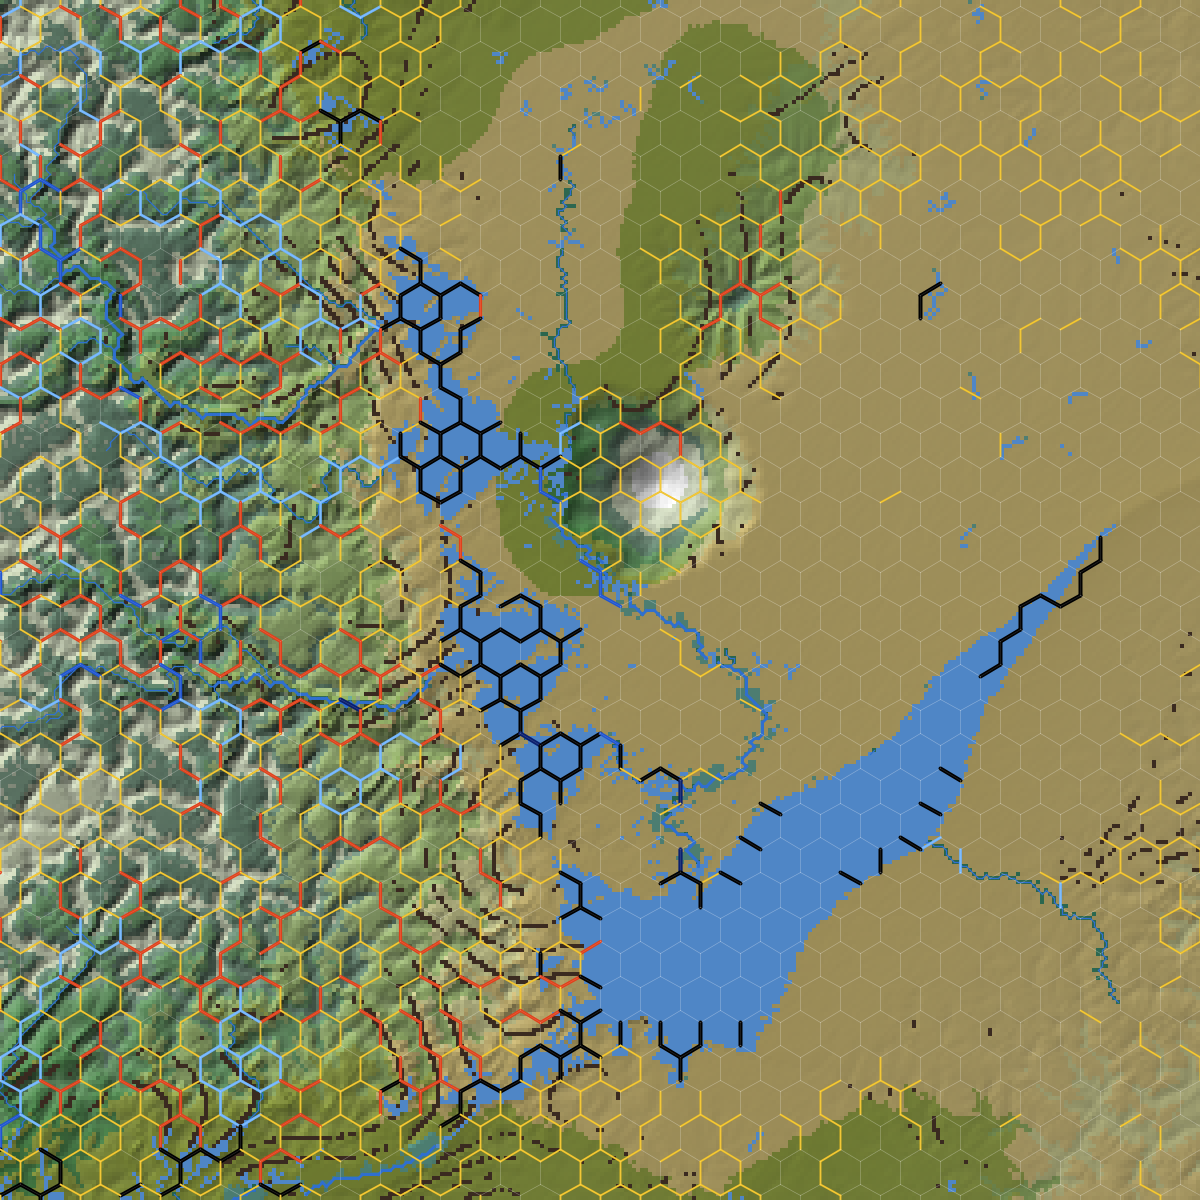
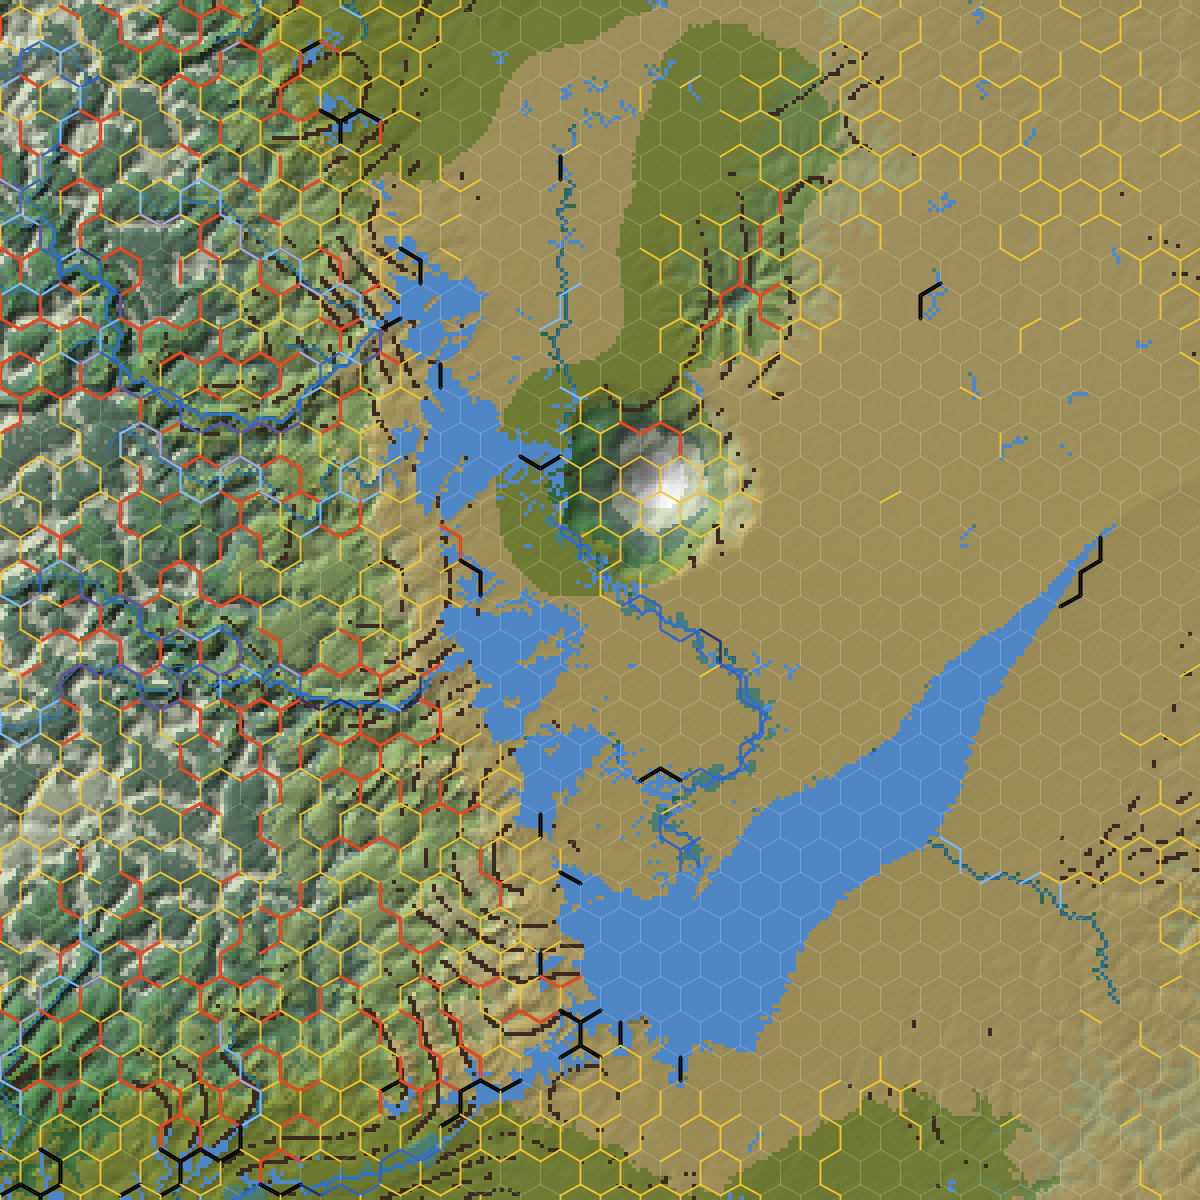
Rivers on hex edges (where their course passes between two hexes' centres), graded by depth at the best crossing along the stretch; ground effort worked out with rivers left aside; mostly-water hexes are water

diff --git a/src/main/kotlin/inflation/world/HexMap.kt b/src/main/kotlin/inflation/world/HexMap.kt
@@ -15,9 +15,13 @@ import kotlin.math.sqrt
  *
  * - A cell knows its mix of ground: land share, its elevations from valley floor to peak, how
  *   much of it is flat, slope or crag, and its rivers.
- * - A border knows what it takes to cross it: the effort of the easiest way from the heart of one
- *   cell to the heart of the other over the fine terrain, the highest point on that way (a pass),
- *   the biggest river it crosses (a ford or a barrier), or that there is no way at all.
+ * - A border knows what it takes to cross it, as two separate things. The ground: the effort of the
+ *   easiest way from the heart of one cell to the heart of the other over the fine terrain, rivers
+ *   left aside, and the highest point on that way (a pass). The water: a river lies on the border
+ *   when its course passes between the two hexes' centres, so a river that crosses the map makes a
+ *   continuous line of river borders; it is graded by its depth at the best crossing along that
+ *   stretch (knee deep and less is no obstacle).
+ * - A hex that is mostly lake or sea is water, not land.
  *
  * Hexes are "pointy-top" in odd-row offset layout: row r is shifted half a cell right when r is odd.
  */
@@ -37,22 +41,19 @@ class HexMap(private val world: World, val hexKm: Double = 10.0) {
     /** Per hex: lowest, median and highest land elevation, m; shares of land that is flat (< 5%), slope, and crag (> 45%). */
     val lowM = FloatArray(size); val midM = FloatArray(size); val highM = FloatArray(size)
     val flat = FloatArray(size); val crag = FloatArray(size)
-    /**
-     * Per way of travelling ([Travel]) and hex border (hex × 6 directions): effort to cross, flat-ground
-     * km (infinite: no way). For the light walker also the highest point on the way, m, and the biggest
-     * river crossed, m³/s.
-     */
+    /** Per way of travelling ([Travel]) and hex border (hex × 6 directions): effort over the ground, flat-ground km, rivers left aside (infinite: no way). */
+    val ground = Array(Travel.entries.size) { FloatArray(size * 6) { Float.POSITIVE_INFINITY } }
+    /** Per way of travelling and border: the whole effort to cross, ground and water (infinite: no way). */
     val crossings = Array(Travel.entries.size) { FloatArray(size * 6) { Float.POSITIVE_INFINITY } }
     val crossing get() = crossings[Travel.FOOT.ordinal]
+    /** Per border: highest point on the way over the ground, m. */
     val passM = FloatArray(size * 6)
+    /** Per border: the river on it, its flow, m³/s, and its depth at the best crossing along the border, m (0: none). */
     val riverM3s = FloatArray(size * 6)
-    /**
-     * Per border: depth of the water to be crossed at the best crossing between the two hexes, m (0 where
-     * no river lies between them). Taken from the way a swimmer would go, so it is known even where the
-     * river closes the border to those on foot.
-     */
     val riverDepthM = FloatArray(size * 6)
-    /** Per way of travelling: effort per fine cell, as a multiple of flat open ground. */
+    /** Whether each hex is water (mostly lake or sea). */
+    val water = BooleanArray(size)
+    /** Per way of travelling: effort per fine cell over the ground, rivers left aside, as a multiple of flat open ground. */
     val costs = Array(Travel.entries.size) { FloatArray(grid.size) }
     val walk get() = costs[Travel.FOOT.ordinal]
 
@@ -63,25 +64,36 @@ class HexMap(private val world: World, val hexKm: Double = 10.0) {
             val s = terrain.slope[i]
             val land = terrain.landCost[i]          // without the river
             val climb = exp(3.5f * s)               // already in it
-            val depth = terrain.crossingDepthM(i)   // at mean flow, where it is easiest
             for (tr in Travel.entries) {
                 val slope = exp(tr.ease * s) * (if (s > tr.steep) exp(BARRIER * (s - tr.steep)) else 1f)
-                costs[tr.ordinal][i] = land / climb * slope * tr.water(depth) * (if (terrain.cliff[i]) tr.cliff else 1f)
+                costs[tr.ordinal][i] = land / climb * slope * (if (terrain.cliff[i]) tr.cliff else 1f)
             }
         }
+        val wet = IntArray(size)
         for (i in 0 until grid.size) {
             val h = hexAt(grid.x(i) * grid.cellKm + 0.5 * grid.cellKm, grid.y(i) * grid.cellKm + 0.5 * grid.cellKm)
             owner[i] = h
             cells[h]++
             if (!world.isSea[i]) landCells[h]++
+            if (world.isSea[i] || world.water.isLake(i)) wet[h]++
         }
+        for (h in 0 until size) water[h] = wet[h] * 2 > cells[h]
         summarise()
+        for (h in 0 until size) if (water[h]) heart[h] = -1
+        riversOnEdges()
         java.util.stream.IntStream.range(0, size).parallel().forEach { a ->
             if (heart[a] < 0) return@forEach
             for (d in 0 until 3) {
                 val b = neighbour(a, d)
                 if (b < 0 || heart[b] < 0) continue
-                for (tr in Travel.entries) cross(a, b, d, tr)
+                for (tr in Travel.entries) {
+                    cross(a, b, d, tr)
+                    // The whole crossing: the ground, plus the river on the border, if any.
+                    val g = ground[tr.ordinal][a * 6 + d]
+                    val w = tr.water(riverDepthM[a * 6 + d])
+                    val e = if (!g.isFinite() || !w.isFinite()) Float.POSITIVE_INFINITY else g + (w - 1f) * RIVER_KM
+                    crossings[tr.ordinal][a * 6 + d] = e; crossings[tr.ordinal][b * 6 + (d + 3) % 6] = e
+                }
             }
         }
     }
@@ -201,23 +213,52 @@ class HexMap(private val world: World, val hexKm: Double = 10.0) {
             }
         }
         if (!found) return
-        // Along the way: its highest point, the biggest river and the deepest water crossed.
-        var top = world.elevation[to]; var river = 0f; var depth = 0f
+        // Along the way: its highest point.
+        var top = world.elevation[to]
         var i = to
-        while (i != from) {
-            top = max(top, world.elevation[i])
-            river = max(river, world.water.discharge[i])
-            depth = max(depth, terrain.crossingDepthM(i))
-            i = via.getValue(i)
-        }
+        while (i != from) { top = max(top, world.elevation[i]); i = via.getValue(i) }
         val e = dist.getValue(to)
         val back = (d + 3) % 6
-        crossings[tr.ordinal][a * 6 + d] = e; crossings[tr.ordinal][b * 6 + back] = e
-        if (tr == Travel.SWIM) {
-            riverM3s[a * 6 + d] = river; riverM3s[b * 6 + back] = river
-            riverDepthM[a * 6 + d] = depth; riverDepthM[b * 6 + back] = depth
-        }
+        ground[tr.ordinal][a * 6 + d] = e; ground[tr.ordinal][b * 6 + back] = e
         if (tr == Travel.FOOT) { passM[a * 6 + d] = top; passM[b * 6 + back] = top }
+    }
+
+    /**
+     * Puts the rivers on the borders they run between: each reach of a river deep enough to matter
+     * (over the knee where it is easiest) that passes between the centres of two neighbouring hexes
+     * puts the river on their border, at the best crossing depth of the reaches doing so.
+     */
+    private fun riversOnEdges() {
+        val recv = world.water.drainage.receiver
+        val ck = grid.cellKm
+        for (i in 0 until grid.size) {
+            val r = recv[i]
+            if (r == i || world.isSea[i] || world.riverClass(i) < RiverClass.STREAM) continue
+            val depth = terrain.crossingDepthM(i)
+            if (depth <= KNEE) continue
+            val ax = (grid.x(i) + 0.5) * ck; val ay = (grid.y(i) + 0.5) * ck
+            val bx = (grid.x(r) + 0.5) * ck; val by = (grid.y(r) + 0.5) * ck
+            // The hexes near the reach, and their borders.
+            val near = HashSet<Int>()
+            for (h in intArrayOf(owner[i], owner[r])) { near += h; for (d in 0 until 6) neighbour(h, d).let { if (it >= 0) near += it } }
+            for (h in near) for (d in 0 until 3) {
+                val n = neighbour(h, d)
+                if (n < 0 || n !in near) continue
+                val (hx, hy) = centreKm(h); val (nx, ny) = centreKm(n)
+                if (!segmentsCross(ax, ay, bx, by, hx, hy, nx, ny)) continue
+                val k = h * 6 + d; val back = n * 6 + (d + 3) % 6
+                val best = if (riverDepthM[k] == 0f) depth else min(riverDepthM[k], depth)
+                riverDepthM[k] = best; riverDepthM[back] = best
+                riverM3s[k] = max(riverM3s[k], world.water.discharge[i]); riverM3s[back] = riverM3s[k]
+            }
+        }
+    }
+
+    private fun segmentsCross(ax: Double, ay: Double, bx: Double, by: Double, cx: Double, cy: Double, dx: Double, dy: Double): Boolean {
+        fun side(px: Double, py: Double, qx: Double, qy: Double, rx: Double, ry: Double) = (qx - px) * (ry - py) - (qy - py) * (rx - px)
+        val d1 = side(cx, cy, dx, dy, ax, ay); val d2 = side(cx, cy, dx, dy, bx, by)
+        val d3 = side(ax, ay, bx, by, cx, cy); val d4 = side(ax, ay, bx, by, dx, dy)
+        return (d1 > 0) != (d2 > 0) && (d3 > 0) != (d4 > 0)
     }
 
     /** Least effort from hex [a] to every hex, over the borders, travelling as [tr]; infinite where there is no way. */
@@ -267,6 +308,8 @@ class HexMap(private val world: World, val hexKm: Double = 10.0) {
         const val BARRIER = 25f
         /** Water up to the knee, m, is crossed without trouble. */
         const val KNEE = 0.5f
+        /** How much ground the water's effort factor applies to when a river is crossed, km. */
+        const val RIVER_KM = 1f
         // Neighbour offsets (col, row) for even and odd rows: E, SE, SW, W, NW, NE.
         private val EVEN = arrayOf(1 to 0, 0 to 1, -1 to 1, -1 to 0, -1 to -1, 0 to -1)
         private val ODD = arrayOf(1 to 0, 1 to 1, 0 to 1, -1 to 0, 0 to -1, 1 to -1)

diff --git a/src/main/kotlin/inflation/world/HexPicture.kt b/src/main/kotlin/inflation/world/HexPicture.kt
@@ -13,13 +13,12 @@ import kotlin.math.sqrt
 /**
  * A picture of the hexes over the fine terrain they summarise: shaded relief and plant cover from
  * the 1 km cells, rivers drawn on their own courses (wider the bigger), and every border between
- * two land hexes coloured by what it takes to cross on foot:
+ * two land hexes marked with what it takes to cross on foot, the ground and the water apart:
  *
- * - no line: open, under 1.5 times the effort of flat ground;
- * - yellow: hard (1.5–4 times); orange-red: very hard (over 4 times), mostly steep ground;
- * - light blue: a river to be waded (knee to waist deep at the best crossing); mid blue: chest deep,
- *   slow and dangerous; dark blue: deeper, no way across on foot (swimmers only);
- * - black: no way at all on foot for any other reason (cliffs, open water).
+ * - the ground: no line, open (under 1.5 times the effort of flat ground); yellow, hard (1.5–4
+ *   times); orange-red, very hard (over 4 times); black, no way over the ground (cliffs, open water);
+ * - the water, a narrower line on top: light blue, a river to be waded (knee to waist deep at the
+ *   best crossing); mid blue, chest deep, slow and dangerous; dark blue, deeper, closed on foot.
  *
  * Usage: hex-picture [--seed N] [--width KM] [--height KM] [--out FILE] [--x KM --y KM --size KM] [--px N]
  * where x, y, size pick a square of the map (km from the north-west corner) and px is pixels per km.
@@ -92,20 +91,24 @@ object HexPicture {
                 gr.stroke = BasicStroke(0.6f); gr.color = Color(255, 255, 255, 45)
                 gr.drawLine(xa, ya, xb, yb)
                 if (b < 0 || hex.heart[a] < 0 || hex.heart[b] < 0 || b < a) continue
-                val e = foot[a * 6 + d] / hex.hexKm.toFloat()
-                val depth = hex.riverDepthM[a * 6 + d]
+                // The ground: colour by effort over it, rivers left aside.
+                val e = hex.ground[HexMap.Travel.FOOT.ordinal][a * 6 + d] / hex.hexKm.toFloat()
                 val (colour, width) = when {
-                    depth > 1.5f -> Color(0x0a1f6e) to 3.2f
-                    depth > 1.0f -> Color(0x1f55d0) to 2.6f
-                    depth > HexMap.KNEE -> Color(0x6fb4ff) to 2.0f
                     !e.isFinite() -> Color.BLACK to 3.0f
                     e >= 4f -> Color(0xe0401a) to 2.4f
                     e >= 1.5f -> Color(0xf0c020) to 1.4f
                     else -> null to 0f
                 }
-                if (colour == null) continue
-                gr.stroke = BasicStroke(width * px / 3f, BasicStroke.CAP_ROUND, BasicStroke.JOIN_ROUND)
-                gr.color = colour
+                if (colour != null) {
+                    gr.stroke = BasicStroke(width * px / 3f, BasicStroke.CAP_ROUND, BasicStroke.JOIN_ROUND)
+                    gr.color = colour
+                    gr.drawLine(xa, ya, xb, yb)
+                }
+                // The water, on top: a river on this border, by depth at its best crossing.
+                val depth = hex.riverDepthM[a * 6 + d]
+                if (depth <= HexMap.KNEE) continue
+                gr.color = when { depth > 1.5f -> Color(0x0a1f6e); depth > 1.0f -> Color(0x1f55d0); else -> Color(0x6fb4ff) }
+                gr.stroke = BasicStroke(1.1f * px / 2f, BasicStroke.CAP_ROUND, BasicStroke.JOIN_ROUND)
                 gr.drawLine(xa, ya, xb, yb)
             }
         }
